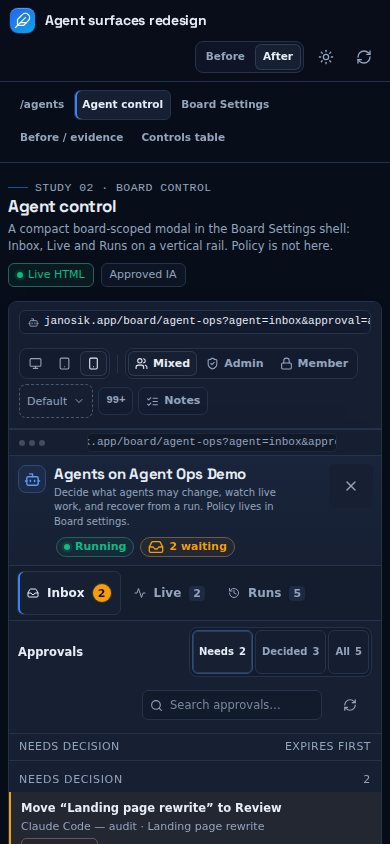
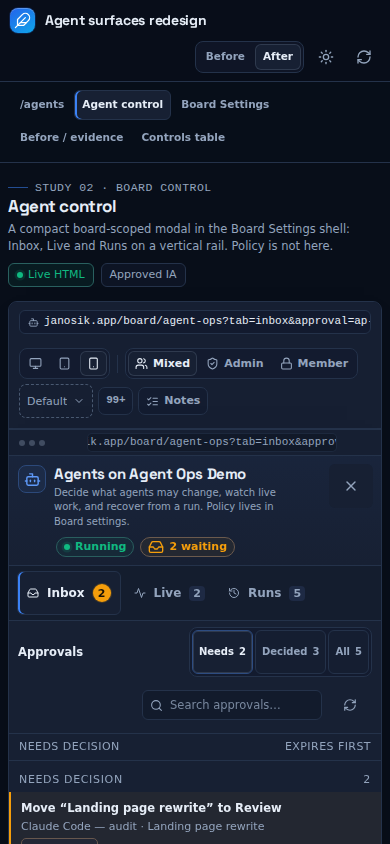
fix(agents): close TASK-179.12 review findings

diff --git a/design/agent-surfaces-prototype/index.html b/design/agent-surfaces-prototype/index.html
@@ -894,6 +894,7 @@ svg{display:block}
 .mini-card-foot{display:flex;align-items:center;gap:4px;margin-top:6px;color:var(--muted-foreground);font-size:8.5px}
 .scene-scrim{position:absolute;inset:0;z-index:10;background:var(--overlay);backdrop-filter:blur(2px);display:none}
 .scene-scrim.is-open{display:block;animation:fade-in var(--fast) var(--ease) both}
+.device-frame[data-device="tablet"] .scene-scrim{top:48px;height:calc(100% - 48px)}
 .board-scene-callout{
   position:absolute;z-index:8;left:50%;top:50%;transform:translate(-50%,-50%);background:var(--surface);border:1px solid var(--border);
   border-radius:10px;padding:18px;text-align:center;box-shadow:var(--shadow-lg);width:min(320px,calc(100% - 32px));
@@ -1691,6 +1692,7 @@ svg{display:block}
 @container ac (max-width:760px){
   .ac-toolbar .icon-btn-sm{width:44px;height:44px}
   .ac-toolbar .seg .chip{height:44px;min-height:44px}
+  .live-status-actions .btn{height:44px;min-height:44px;font-size:11px;padding:0 10px}
   .live-session-actions .btn{height:44px;min-height:44px;font-size:11px;padding:0 10px}
   .live-session-actions .icon-btn-sm{width:44px;height:44px}
   .session-group-head .group-actions .btn{min-height:44px;height:44px}
@@ -1709,10 +1711,16 @@ svg{display:block}
   .number-field input{min-height:44px}
   .bs-modal .cselect-trigger.full{height:44px;min-height:44px}
   .show-keys{min-height:44px;display:inline-flex;align-items:center}
+  .bs-scroll .related-link{min-height:44px;height:auto;padding-top:8px;padding-bottom:8px}
+}
+@container scenesize (max-width:560px){
+  .board-scene .app-header .avatar{display:none}
+  .board-scene .header-actions{gap:2px}
 }
 @media (max-width:720px){
   .dialog-foot .btn{min-height:44px;height:44px}
 }
+body[data-device="mobile"] .dialog-foot .btn{min-height:44px;height:44px}
 </style>
 </head>
 <body>
@@ -2396,7 +2404,7 @@ const initialState = () => ({
   runSession: 'all',
   sessionGroup: 'board',
   selectedType: 'approval',
-  selectedId: 'ap-1',
+  selectedId: 'ap-8',
   sheetOpen: false,
   rejecting: false,
   rejectReason: '',
@@ -2544,15 +2552,6 @@ function pendingAll() {
 }
 function scopePending() {
   return state.boardFilter === 'all' ? pendingAll() : pendingKnownOn(state.boardFilter);
-}
-function pendingBadge(n, { quietUnknown = false } = {}) {
-  if (n === null) {
-    return quietUnknown
-      ? '<span class="count-badge is-quiet" title="Pending approvals unavailable" aria-label="Pending approvals unavailable">—</span>'
-      : '';
-  }
-  if (n <= 0) return '';
-  return `<span class="count-badge" aria-label="${n} pending approval${n === 1 ? '' : 's'}">${badgeText(n)}</span>`;
 }
 function railPending(n) {
   if (n === null) return '<span class="rail-count is-unknown" title="Pending approvals unavailable">—</span>';
@@ -3090,7 +3089,7 @@ function stagePath() {
   }
   if (state.section === 'control') {
     const params = new URLSearchParams();
-    params.set('agent', state.acTab);
+    params.set('tab', state.acTab);
     if (state.acTab === 'inbox' && isAdminOn(state.sceneBoard)) params.set('approval', state.acSelectedApprovalId);
     return `janosik.app/board/${state.sceneBoard}?${params.toString()}`;
   }
@@ -3099,6 +3098,7 @@ function stagePath() {
 }
 
 function syncChrome() {
+  document.body.dataset.device = state.device;
   const meta = SECTION_META[state.section];
   const path = stagePath();
   document.getElementById('section-kicker').textContent = meta.kicker;
@@ -3720,7 +3720,7 @@ function renderAgentsRail() {
   const sessionCount = filteredSessions({ search: '', agentFilter: 'all', statusFilter: 'all' }).length;
   const runCount = filteredRuns({ search: '', status: 'all', kind: 'all', token: 'all', sessionName: 'all', time: 'all' }).length;
   const tab = (id, name, iconName, count, amber = false) => {
-    const text = count === null ? '' : count === '—' ? '—' : badgeText(count);
+    const text = count === null || count === '' ? '' : count === '—' ? '—' : amber ? badgeText(count) : count;
     const show = count !== null && count !== 0 && count !== '';
     return `
     <button type="button" class="rail-tab" role="tab" id="agents-tab-${id}" aria-selected="${state.agentTab === id}" aria-controls="agents-main" tabindex="${state.agentTab === id ? '0' : '-1'}" data-action="agents-tab" data-tab="${id}">
@@ -4183,7 +4183,7 @@ function renderAgentModal() {
   const inboxVisible = controlInboxVisible();
   const inboxCount = pending === null ? '—' : inboxVisible.pending;
   const railTab = (id, name, iconName, count, amber = false) => {
-    const text = count === '—' ? '—' : badgeText(count);
+    const text = count === '—' ? '—' : amber ? badgeText(count) : count;
     const show = count !== null && count !== 0 && count !== '';
     return `
     <button type="button" class="ac-rail-tab" role="tab" id="ac-tab-${id}" aria-selected="${tab === id}" aria-controls="ac-panel" tabindex="${tab === id ? '0' : '-1'}" data-action="ac-tab" data-tab="${id}">
@@ -4280,7 +4280,7 @@ function renderInboxPanel() {
   const pendingRows = visible.filter((a) => approvalStatus(a) === 'pending');
   const decidedRows = visible.filter((a) => approvalStatus(a) !== 'pending');
   const list = `<div class="ac-list" id="ac-list-scroll">
-    <div class="ac-list-head"><span>${state.acInboxFilter === 'needs' ? 'Needs decision' : state.acInboxFilter === 'decided' ? 'Recently decided' : 'Approvals'}</span><span>Expires first</span></div>
+    <div class="ac-list-head"><span>${state.acInboxFilter === 'needs' ? 'Needs decision' : state.acInboxFilter === 'decided' ? 'Recently decided' : 'Approvals'}</span><span>${state.acInboxFilter === 'decided' ? 'Decided' : 'Expires first'}</span></div>
     ${state.demoState === 'empty' || !visible.length ? `<div class="empty-state" style="min-height:220px"><span class="empty-icon">${icon('inbox')}</span><h3>${state.acInboxFilter === 'needs' ? 'No approvals waiting' : 'No requests here'}</h3><p>${state.acInboxFilter === 'needs' ? 'The board is clear. Decided requests stay in the history.' : 'Try another filter or clear the search.'}</p><div class="empty-actions"><button type="button" class="btn btn-outline btn-sm" data-action="ac-inbox-filter" data-filter="all">View all</button></div></div>` : `
       ${pendingRows.length ? `<div class="ac-list-group"><div class="ac-list-label"><span>Needs decision</span><span>${pendingRows.length}</span></div>${pendingRows.map(row).join('')}</div>` : ''}
       ${decidedRows.length && state.acInboxFilter !== 'needs' ? `<div class="ac-list-group"><div class="ac-list-label"><span>Recently decided</span><span>${decidedRows.length}</span></div>${decidedRows.map(row).join('')}</div>` : ''}

diff --git a/design/agent-surfaces-prototype/README.md b/design/agent-surfaces-prototype/README.md
@@ -172,6 +172,7 @@ Validated with Playwright in Chromium on 13 November 2026. Captures are in `scre
 | `29-scoped-counts.png` | ADMIN on both boards: Website scope 1, All 3, Agent Ops 2 |
 | `30-partial-unknown.png` | Partial error: All and Website show `—`, Agent Ops keeps its known count |
 | `31-token-ownership.png` | Live: own token has Token settings, other member's token is read-only |
+| `32-agent-control-mobile-live.png` | 390 Live: 44 px pause/resume and Manage tokens, no Stop token |
 
 Checks performed:
 
@@ -191,7 +192,7 @@ Checks performed:
 - Board Settings dirty/Save/Discard/Reset and CAS conflict/Reload preserve or discard the draft as labelled.
 - Loading, empty and partial-error states switch; partial error keeps last-loaded rows, marks the unavailable board and leaves the healthy board's freshness intact.
 - The empty sessions state exposes Create API key + Read docs.
-- The 99+ badge appears in every count surface when stress-tested; the bell stays invitations-only.
+- The 99+ badge appears on every pending-approval surface when stress-tested; Sessions/Live/Runs keep their real numbers, and the bell stays invitations-only.
 - Escape/close in Agent control and Board Settings returns focus to the trigger; tablists support arrows/Home/End and the modal traps focus.
-- At 390, every visible primary button in the app shell, Agent control modal and Board Settings modal measures at least 44 px; the same check passes for the dialog footer. The 1024 sheet starts below the 48 px board header instead of covering it.
+- At 390, every visible primary button in the app shell, Agent control modal and Board Settings modal measures at least 44 px; the same check passes for the dialog footer. At 1024 both the sheet and its scrim start below the 48 px board header instead of covering it.
 - All 44 evidence images and both self-hosted fonts load; no external requests. The validation screenshots were regenerated on the synced prototype.
